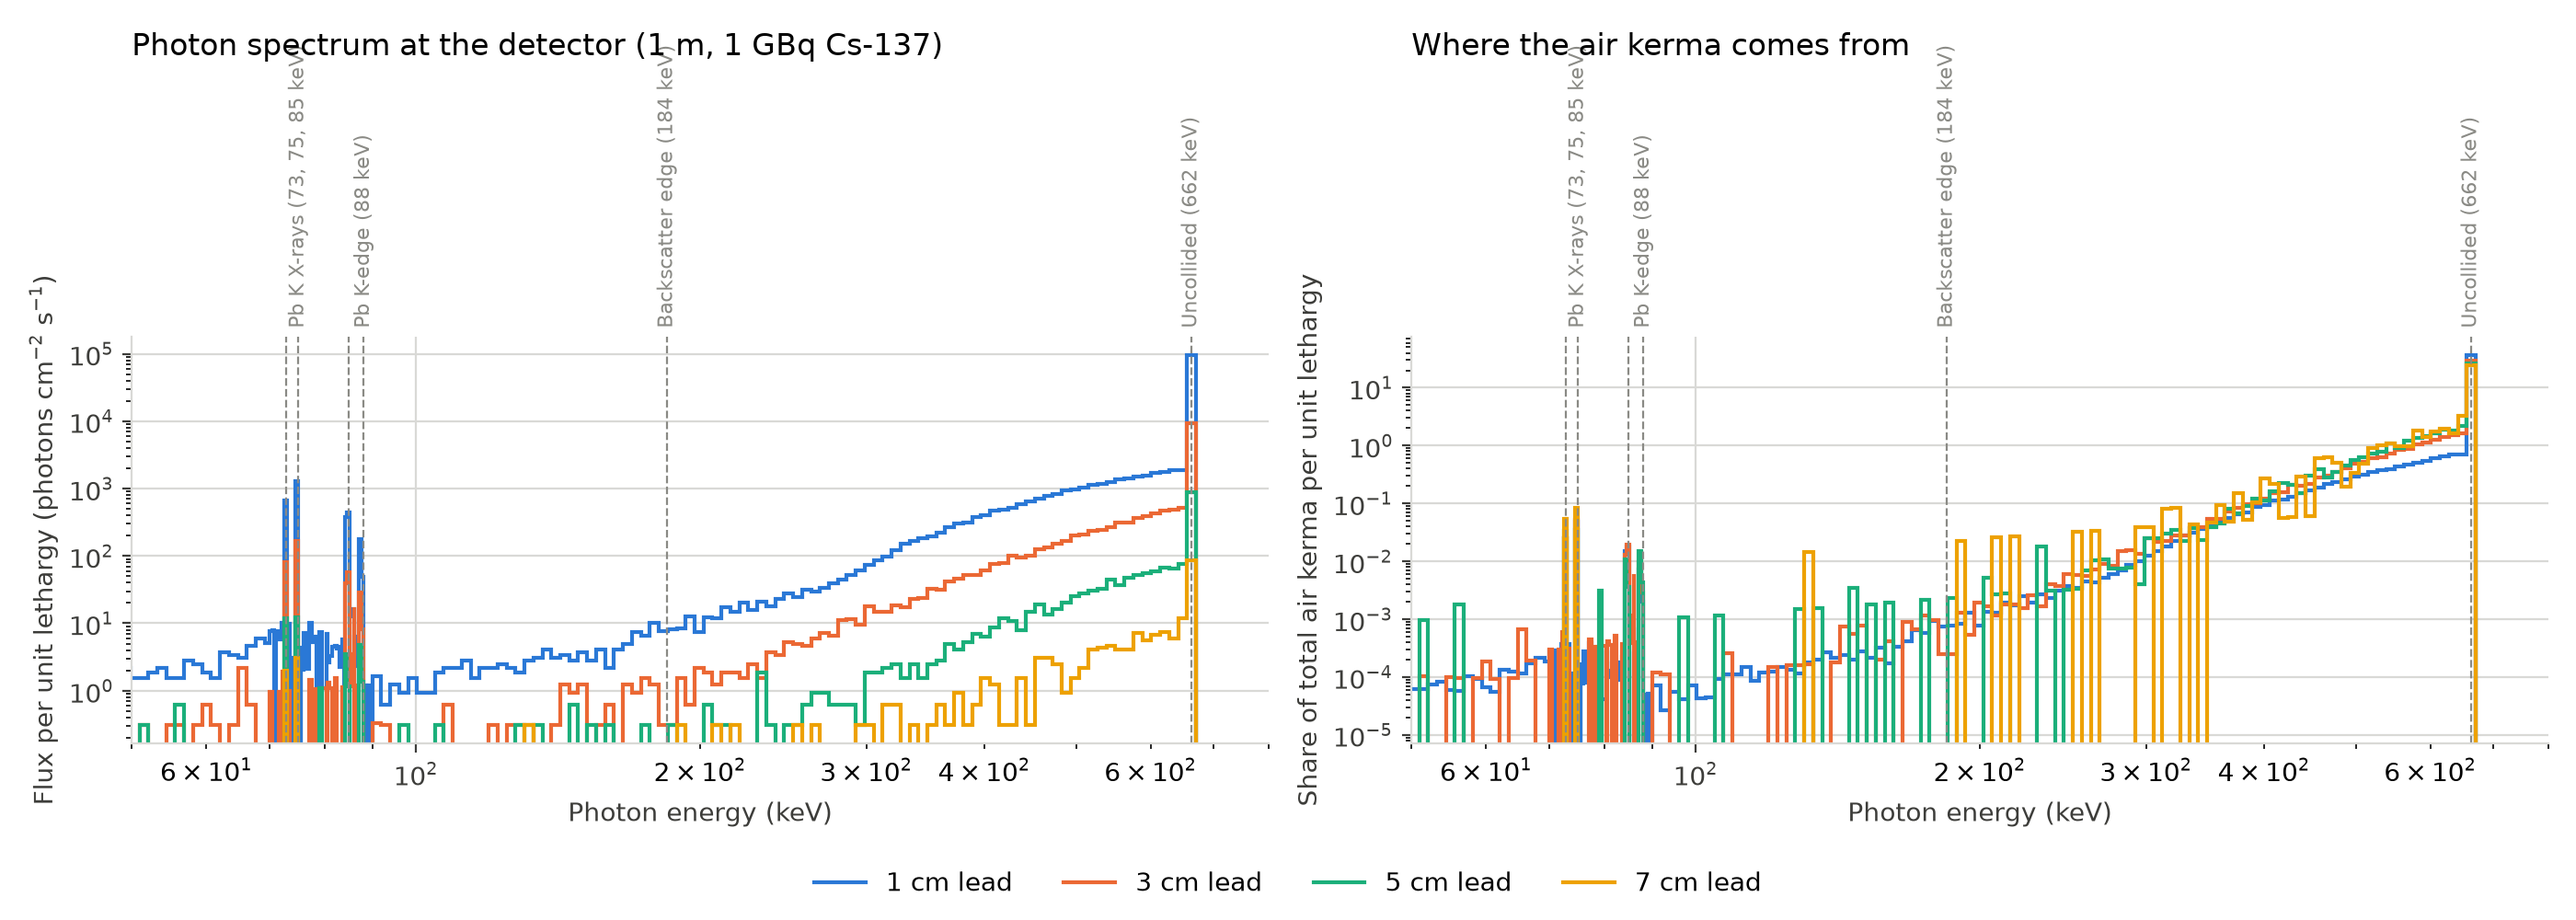
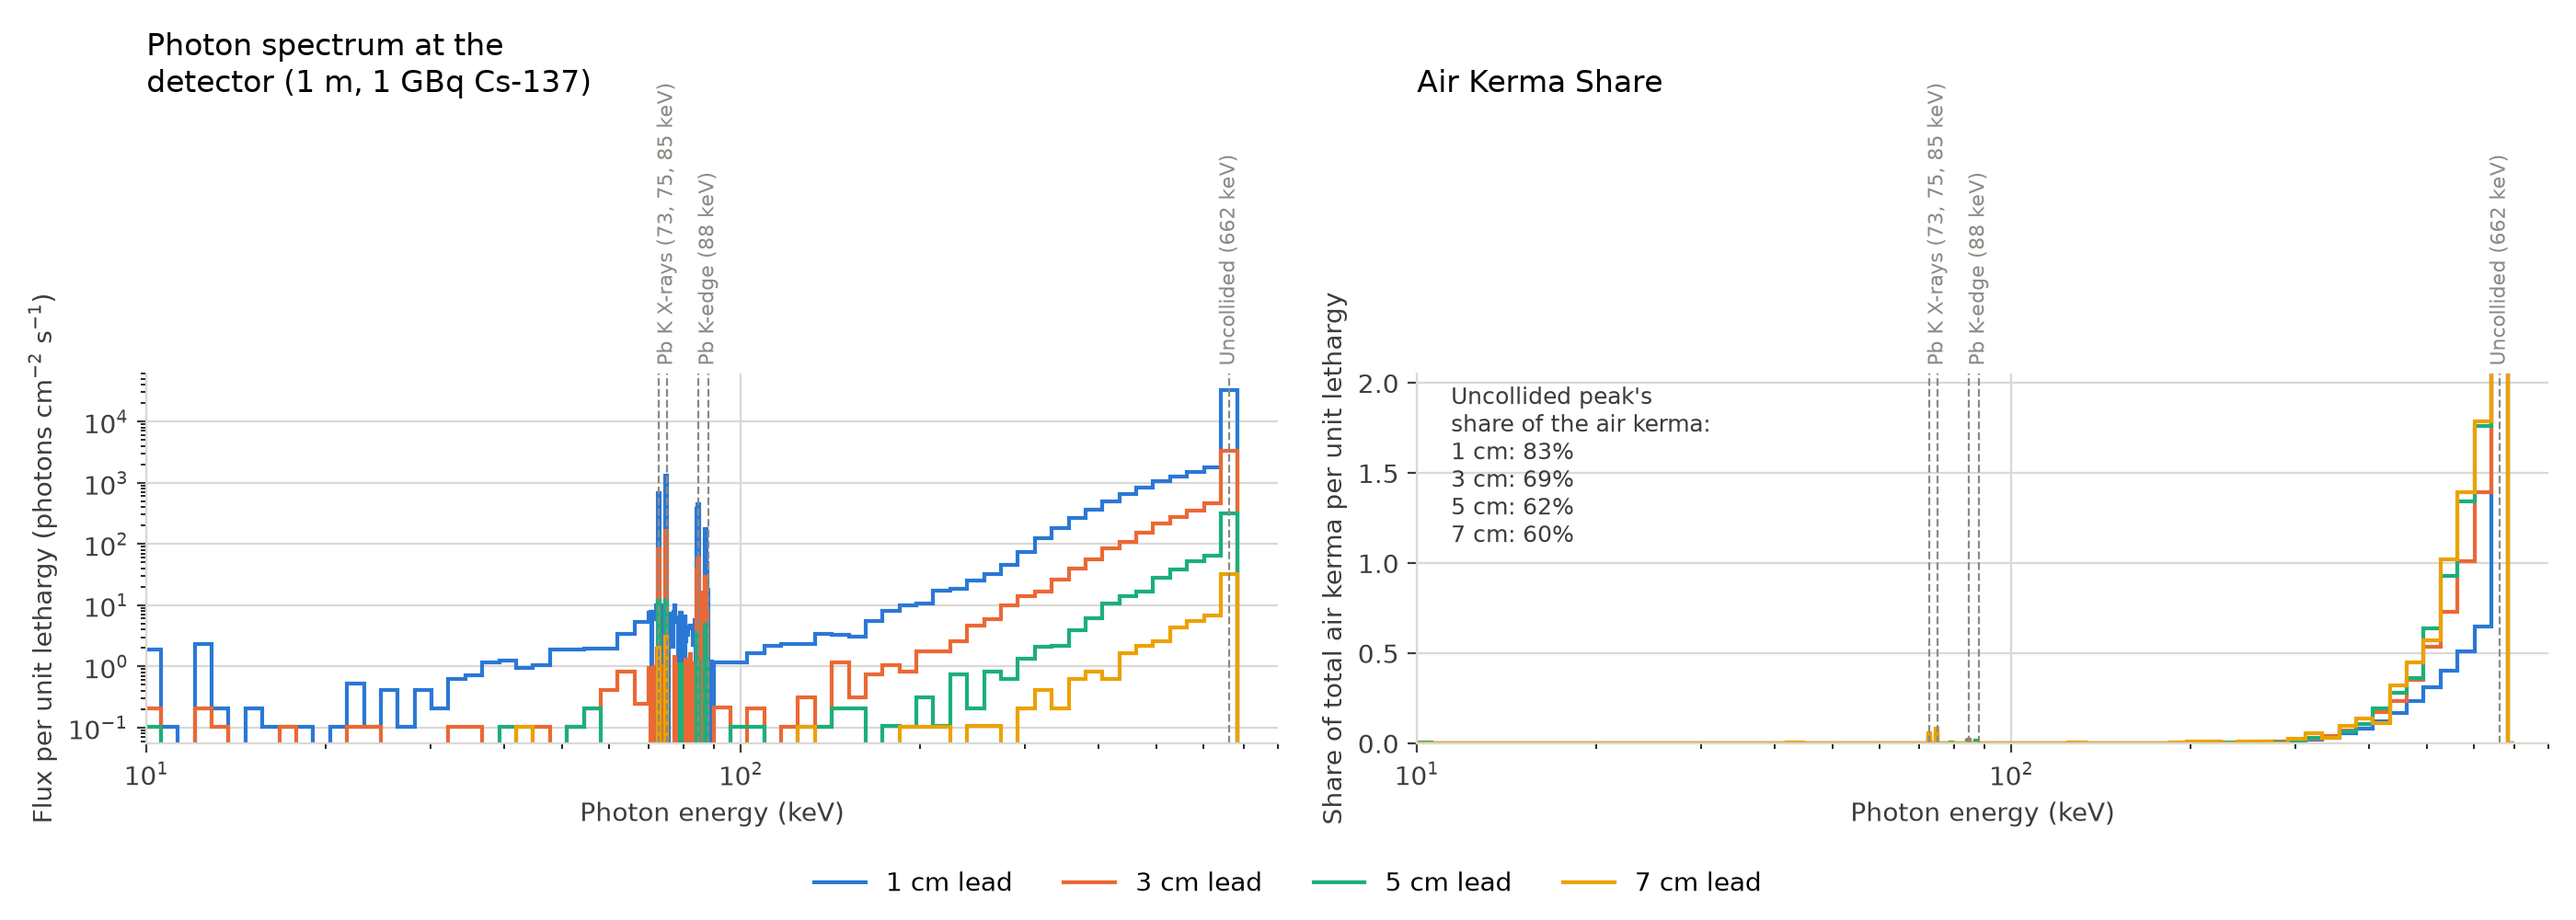
update read me with gamma spectrum results

diff --git a/src/slab_shielding/spectrum_plot.py b/src/slab_shielding/spectrum_plot.py
@@ -12,16 +12,42 @@ spectrum_dir = Path(__file__).resolve().parent / 'Results' / 'spectra'
 
 #Features to mark on the plot, in keV
 electron_rest_energy = 0.511 #MeV
-E_backscatter = E / (1 + 2 * E / electron_rest_energy) * 1e3 #keV, single 180 degree Compton scatter
 #(energy, label); features closer together than the labels can fit share one label
 features = [
     (E * 1e3, 'Uncollided (662 keV)'),
-    (E_backscatter, f'Backscatter edge ({E_backscatter:.0f} keV)'),
     (88.0, 'Pb K-edge (88 keV)'),
     (84.9, None),  #Pb K-beta X-ray
     (75.0, 'Pb K X-rays (73, 75, 85 keV)'),  #Pb K-alpha1 X-ray
     (72.8, None),  #Pb K-alpha2 X-ray
 ]
+
+#For plotting, merge neighbouring bins until each is at least this wide in lethargy
+#(0.05 = 5% wide in energy). Fewer, wider bins means more photons per bin and less noise.
+#Bins inside keep_fine (eV) are not merged, so the lead X-ray peaks stay sharp.
+min_lethargy_width = 0.05
+keep_fine = (70e3, 90e3)
+
+
+def merge_bins(E_low, E_high, flux, min_width, keep_fine):
+    """Combine neighbouring spectrum bins until each is at least min_width wide in lethargy."""
+    new_low, new_high, new_flux = [], [], []
+    start, total = None, 0.0
+    for lo, hi, f in zip(E_low, E_high, flux):
+        if start is None:
+            start, total = lo, 0.0
+        total += f
+        in_fine_region = keep_fine[0] <= lo < keep_fine[1]
+        if np.log(hi / start) >= min_width or in_fine_region:
+            new_low.append(start)
+            new_high.append(hi)
+            new_flux.append(total)
+            start = None
+    if start is not None:  #leftover bins at the top end
+        new_low.append(start)
+        new_high.append(E_high[-1])
+        new_flux.append(total)
+    return np.array(new_low), np.array(new_high), np.array(new_flux)
+
 
 #Colours (fixed order, colour-blind safe)
 colours = ['#2a78d6', '#eb6834', '#1baf7a', '#eda100']
@@ -34,6 +60,8 @@ fig, (ax1, ax2) = plt.subplots(1, 2, figsize=(14, 5))
 print('Thickness (cm)   flux ratio (total/peak bin)   air kerma ratio (total/peak bin)')
 
 i = 0
+peak_share_text = []
+continuum_max = 0.0
 for t in plot_thickness:
     spectrum_file = spectrum_dir / f'spectrum_t_{t}cm.csv'
     if not spectrum_file.exists():
@@ -43,9 +71,11 @@ for t in plot_thickness:
     colour = colours[i % len(colours)]
     i += 1
 
-    E_low = spectrum['E_low_eV'].to_numpy()
-    E_high = spectrum['E_high_eV'].to_numpy()
-    flux_per_bin = spectrum['flux_per_bin'].to_numpy() #photons/cm^2/s in each bin
+    E_low, E_high, flux_per_bin = merge_bins(
+        spectrum['E_low_eV'].to_numpy(),
+        spectrum['E_high_eV'].to_numpy(),
+        spectrum['flux_per_bin'].to_numpy(), #photons/cm^2/s in each bin
+        min_lethargy_width, keep_fine)
     edges_keV = np.append(E_low, E_high[-1]) / 1e3
 
     #Flux per unit lethargy: divide by ln(E_high/E_low) so bins of different widths are comparable
@@ -60,14 +90,18 @@ for t in plot_thickness:
 
     #Empty bins can't be drawn on a log axis
     flux_plot = np.where(flux_per_lethargy > 0, flux_per_lethargy, np.nan)
-    kerma_plot = np.where(kerma_share_per_lethargy > 0, kerma_share_per_lethargy, np.nan)
 
     ax1.stairs(flux_plot, edges_keV, color=colour, linewidth=1.5, label=f'{t:g} cm lead')
-    ax2.stairs(kerma_plot, edges_keV, color=colour, linewidth=1.5, label=f'{t:g} cm lead')
+    ax2.stairs(kerma_share_per_lethargy, edges_keV, color=colour, linewidth=1.5, label=f'{t:g} cm lead')
+
+    #Uncollided peak bin: its share of the dose is written in a box, because on a linear
+    #axis it would dwarf the scattered part
+    peak = np.searchsorted(E_high, E * 1e6)
+    peak_share_text.append(f'{t:g} cm: {kerma_per_bin[peak] / kerma_per_bin.sum():.0%}')
+    continuum_max = max(continuum_max, np.max(np.delete(kerma_share_per_lethargy, peak)))
 
     #Total vs peak bin: should be close to the flux ratio and the buildup factor from the sweep.
-    #Slightly lower, because the ~2% wide peak bin also catches very small-angle scatters.
-    peak = np.searchsorted(E_high, E * 1e6)
+    #Slightly lower, because the ~5% wide peak bin also catches small-angle scatters.
     print(f'{t:10.1f} {flux_per_bin.sum() / flux_per_bin[peak]:22.3f} {kerma_per_bin.sum() / kerma_per_bin[peak]:30.3f}')
 
 #Mark the physical features on both panels
@@ -75,21 +109,27 @@ for ax in (ax1, ax2):
     for energy, label in features:
         ax.axvline(energy, color=colour_feature, linestyle='--', linewidth=0.8)
     ax.set_xscale('log')
-    ax.set_yscale('log')
-    ax.set_xlim(50, 800)
+    ax.set_xlim(10, 800)
     ax.set_xlabel('Photon energy (keV)')
 
+
+ax1.set_yscale('log')
+
+ax2.set_ylim(0, 1.15 * continuum_max)
+ax2.text(0.03, 0.97, "Uncollided peak's \nshare of the air kerma:\n" + "\n".join(peak_share_text),
+         transform=ax2.transAxes, ha='left', va='top', fontsize=9, color=colour_text)
+
 #Label the features once, along the top of the left panel
-for ax in (ax1, ax2):
+for ax in (ax1, ax2):   
     for energy, label in features:
         if label is not None:
             ax.text(energy, 1.02, label, transform=ax.get_xaxis_transform(), rotation=90,
                     ha='center', va='bottom', fontsize=8, color=colour_feature)
 
 ax1.set_ylabel('Flux per unit lethargy (photons cm$^{-2}$ s$^{-1}$)')
-ax1.set_title('Photon spectrum at the detector (1 m, 1 GBq Cs-137)', loc='left', pad=110)
+ax1.set_title('Photon spectrum at the \ndetector (1 m, 1 GBq Cs-137)', loc='left', pad=110)
 ax2.set_ylabel('Share of total air kerma per unit lethargy')
-ax2.set_title('Where the air kerma comes from', loc='left', pad=110)
+ax2.set_title('Air Kerma Share', loc='left', pad=110)
 
 #Keep gridlines and axes recessive so the data stands out
 for ax in (ax1, ax2):

diff --git a/README.md b/README.md
@@ -167,6 +167,23 @@ Air kerma rates in µGy/h at the detector radius.
 | 6 | 7.04 | 1.899 ± 0.071 | 2.243 ± 0.089 | 2.232 | 0.847 |
 | 7 | 8.22 | 1.95 ± 0.13 | 2.20 ± 0.11 | 2.364 | 0.887 |
 ---
+### 4.4 Photon spectrum at the detector
+
+![Photon spectrum and air kerma share](Results/spectrum.png)
+
+*Left: photon flux per unit lethargy at the detector (1 m, 1 GBq) for 1, 3, 5 and 7 cm of lead. Right: share of the total air kerma delivered at each energy, per unit lethargy.*
+
+**Method.** A flux tally in the detector shell with 300 log-spaced energy bins (1–700 keV, ~2 % wide), plus 0.5 keV bins from 70 to 90 keV to resolve the lead X-rays. Each thickness's spectrum is saved as a CSV. For plotting, neighbouring bins are merged until each is at least 5 % wide (except in the 70–90 keV region), to reduce statistical noise at large thicknesses. The air kerma share is each bin's flux × E (μen/ρ)_air, divided by the total.
+
+**Observations:**
+
+- **Uncollided peak (662 keV)** dominates the flux and shrinks relative to the scattered continuum as the lead thickens.
+- **Scattered continuum.** Photons reaching the detector are mostly **forward-scattered**, keeping most of their energy. The flux falls steeply below ~300 keV, the energy left after a 90° scatter, because low-energy photons are absorbed quickly in lead by the photoelectric effect.
+- **No backscatter edge (184 keV).** The detector sees only transmitted photons. Backscattered photons travel back towards the source and are absorbed in the lead, whose mean free path at 184 keV is about 1 mm.
+- **Lead K X-rays** appear as sharp peaks at ~73/75 keV (Kα) and ~85/87 keV (Kβ), emitted after photoelectric absorption in the lead, and the flux drops just above the **K-edge (88 keV)**, where lead absorbs much more strongly. Weak **lead L X-rays** (~10.5 and 12.6 keV) are visible only behind the thinnest shield.
+- **Where the dose comes from.** Although the X-rays and low-energy scattered photons are numerous, they deliver almost none of the air kerma. The scattered dose comes almost entirely from forward-scattered photons above ~300 keV. This is why the air kerma buildup factor is smaller than the ratio of total to uncollided flux (1.81 vs 1.98 at 5 cm).
+
+**Uncollided share of the air kerma.** The plot box gives 83, 69, 62 and 60 % at 1, 3, 5 and 7 cm. These are slightly higher than 1/B from the sweep (80, 64, 55 and 51 %), because the merged bin containing 662 keV also includes photons that scattered through small angles. At 7 cm the spectrum is also statistically noisy. The values from 1/B (Section 4.3) are the more accurate ones.
 
 ## 5. Discussion
 
